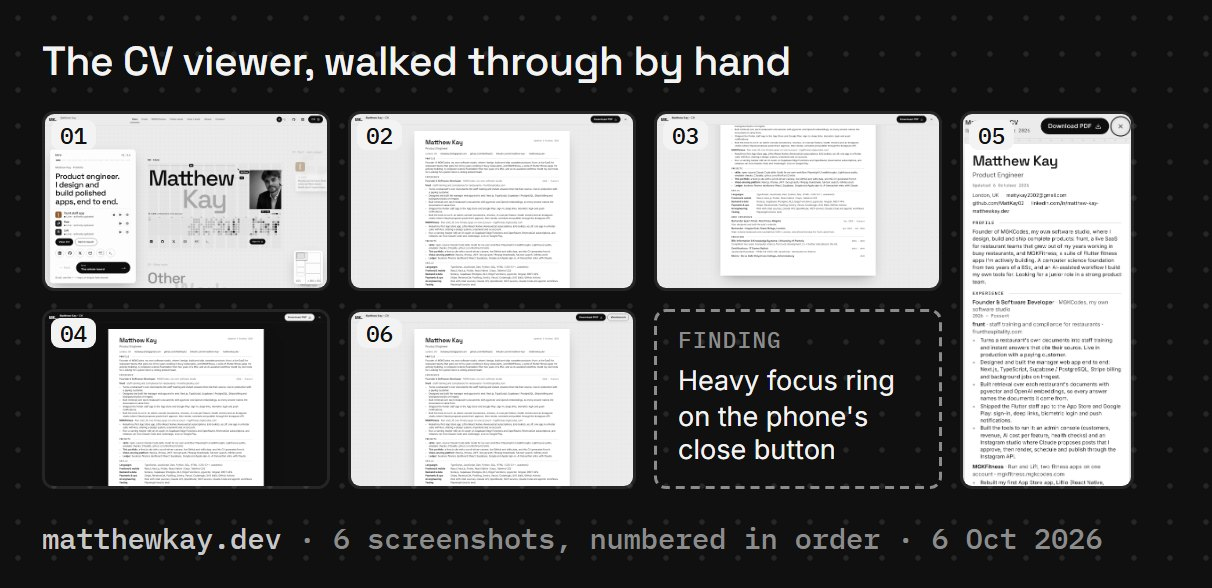
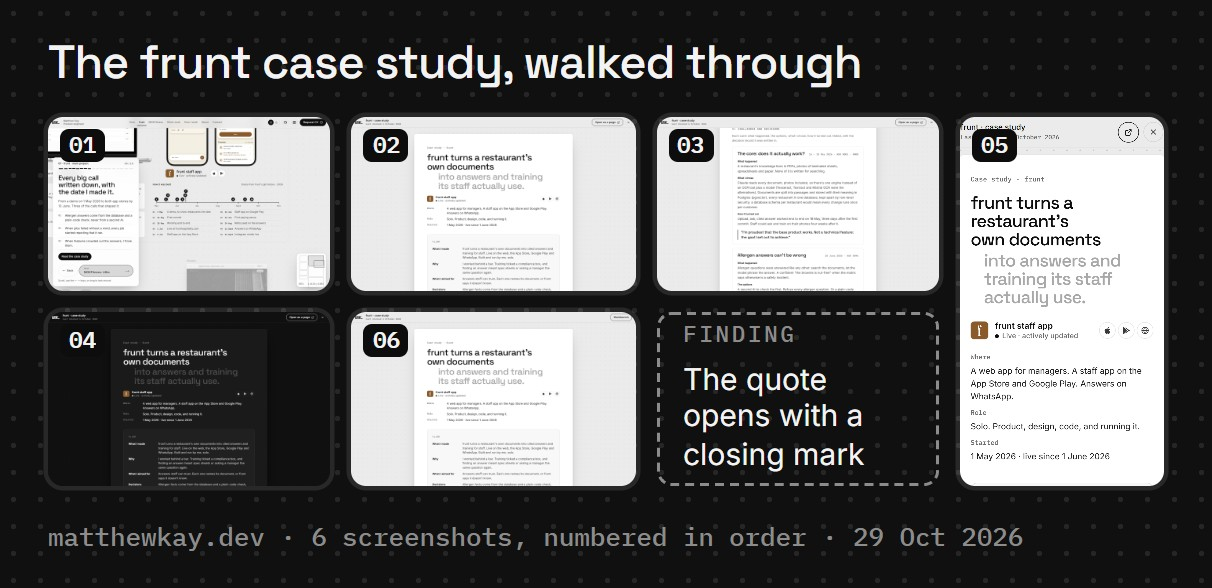
Stories for How I work, and real output for two more skills
- skills.json: phone-fit, silent-failure-sweep and mobile-store-release get
  a one-line `problem` and `featured` (1 to 3). matthewkay.dev tells their
  stories in How I work: the problem, what the skill does, its real output.
- phone-fit: evidence from its run on matthewkay.dev on 29 Oct 2026, 18 tour
  stops at four phone sizes, before and after the fix it found.
- mobile-store-release: evidence from `status` and `links` for Run and Lift,
  read from both stores' APIs on 29 Oct 2026 (read-only).
- ui-walk: a new walk of the frunt case study replaces the CV viewer, which
  is no longer on the site.
- README: what the portfolio reads from skills.json.

Changed region(s): [[0.0305, 0.1837, 0.9769, 0.8571], [0.0305, 0.8878, 0.9158, 0.949], [0.0305, 0.0612, 0.7327, 0.1531]]

diff --git a/README.md b/README.md
@@ -40,7 +40,7 @@ Starts a Codemagic build from the terminal, polls it to completion, and reports 
 
 Drives the running app with Playwright through every surface and state of a feature (empty, mid-flow, success, collapsed/expanded), saving an ordered, numbered screenshot folder that reads like a story. Idempotent: it cleans up everything it creates, so re-running after fixes regenerates the same sequence for comparison.
 
-<picture><source media="(prefers-color-scheme: dark)" srcset="./ui-walk/evidence-dark.jpg"><img src="./ui-walk/evidence.jpg" alt="A real walk of the CV viewer on matthewkay.dev, 6 Oct 2026: six numbered screenshots (opened, scrolled to the end, dark theme, a phone opening the /#cv link first, the standalone page) and the one finding, a heavy focus ring on the phone close button." width="404"></picture>
+<picture><source media="(prefers-color-scheme: dark)" srcset="./ui-walk/evidence-dark.jpg"><img src="./ui-walk/evidence.jpg" alt="A real walk of the frunt case study on matthewkay.dev, 29 Oct 2026: six numbered screenshots (the board stop that opens it, the study over the board, its decisions, dark theme, a phone following the /#frunt link, the standalone page) and the one finding: a quote that opens with a closing mark." width="404"></picture>
 
 **Why:** I kept hand-writing the same walk script before every UI review: ordered captures of every state, then feed the folder to page-audit. Third time was the skill. · **Stack:** Claude Code, Playwright
 
@@ -76,6 +76,8 @@ Runs Lighthouse against a production build, takes the median of several mobile r
 
 Steps through every state of a page or flow at the sizes phones actually give it (Safari's address bar takes part of the screen) and measures what desktop checks miss: a sheet or card that has to scroll, a Next or Submit button off screen, labels landing on other content, and a page that keeps writing to the DOM every frame, the usual reason iPhone Safari lags or reloads. Reports per size and per step, saves a screenshot strip of the worst cases, and re-measures after fixes.
 
+<picture><source media="(prefers-color-scheme: dark)" srcset="./phone-fit/evidence-dark.png"><img src="./phone-fit/evidence.png" alt="phone-fit on matthewkay.dev, 29 Oct 2026: its 18 tour stops at four phone sizes. At 390 x 664 (an iPhone 13 Pro with Safari's bar showing) 16 of 18 fit before the fix and all 18 after; the two case-study cards had to scroll 5px. At 375 x 553 (iPhone SE) 4 stops still scroll. At 430 x 740 and 360 x 740 all fit. The page makes no changes at rest." width="404"></picture>
+
 **Why:** On 6 Oct 2026 my portfolio crash-looped in iPhone Safari and its guide card hid the Next button on an iPhone 13 Pro, while every desktop check passed. I ran the same phone measurements four times that day before turning them into a skill. · **Stack:** Claude Code, Playwright, WebKit
 
 **Install:** `npx skills add MattKay02/skills --skill phone-fit` · Claude Code: `/plugin install phone-fit@mattkay02`
@@ -110,6 +112,8 @@ Sketches a design as rendered films and stills before anything is built: several
 
 Connects an app to App Store Connect and Google Play with its own dedicated API keys, checks the store pictures, uploads the listing, screenshots and creative assets, and runs a read-only pre-flight that lists what App Review or Play would block or reject before anything is submitted. Then it submits, watches the review, works a rejection through to a resubmission in the same submission, and once a version is approved, proves it is public and updates everywhere the project records where the app stands. Nothing changes without a plan shown and a yes, and a project's tooling can only touch the apps its own config names.
 
+<picture><source media="(prefers-color-scheme: dark)" srcset="./mobile-store-release/evidence-dark.png"><img src="./mobile-store-release/evidence.png" alt="mobile-store-release's status and links for Run and Lift, read from the App Store's and Google Play's APIs on 29 Oct 2026: Run 1.0.1 on sale on the App Store and live on Google Play (1.0.1, build 31, production); Lift 2.0.0 on sale on the App Store and live on Google Play (build 46, production)." width="404"></picture>
+
 **Why:** A release meant two web consoles and a head full of rules that each cost a rejection to learn: no "Free" in a screenshot, no name asked after Sign in with Apple, never cancel a stuck submission, never touch Play while CI is uploading. I was re-explaining them to every project. Now each lesson is a check that runs before the next submission. · **Stack:** Claude Code, App Store Connect API, Google Play Developer API, Python
 
 **Install:** `npx skills add MattKay02/skills --skill mobile-store-release` · Claude Code: `/plugin install mobile-store-release@mattkay02`
@@ -118,6 +122,11 @@ Connects an app to App Store Connect and Google Play with its own dedicated API 
 
 > This list and the install manifests are generated from [`skills.json`](./skills.json)
 > and each `SKILL.md`. Don't edit them by hand: add a skill there and they sync themselves.
+>
+> My portfolio ([matthewkay.dev](https://matthewkay.dev), How I work) reads the same file live:
+> `step` (plan, decide, build, check or ship) puts a skill under that step; `featured` (1 to 3)
+> with `problem` (the problem that made it, one plain sentence) tells its story there; `evidence`
+> is real output from a real run, drawn at 404 × 196 in both looks.
 
 Once installed, ask for the capability in plain words ("audit this page") and the agent picks
 the skill up, or run it as a slash command.
